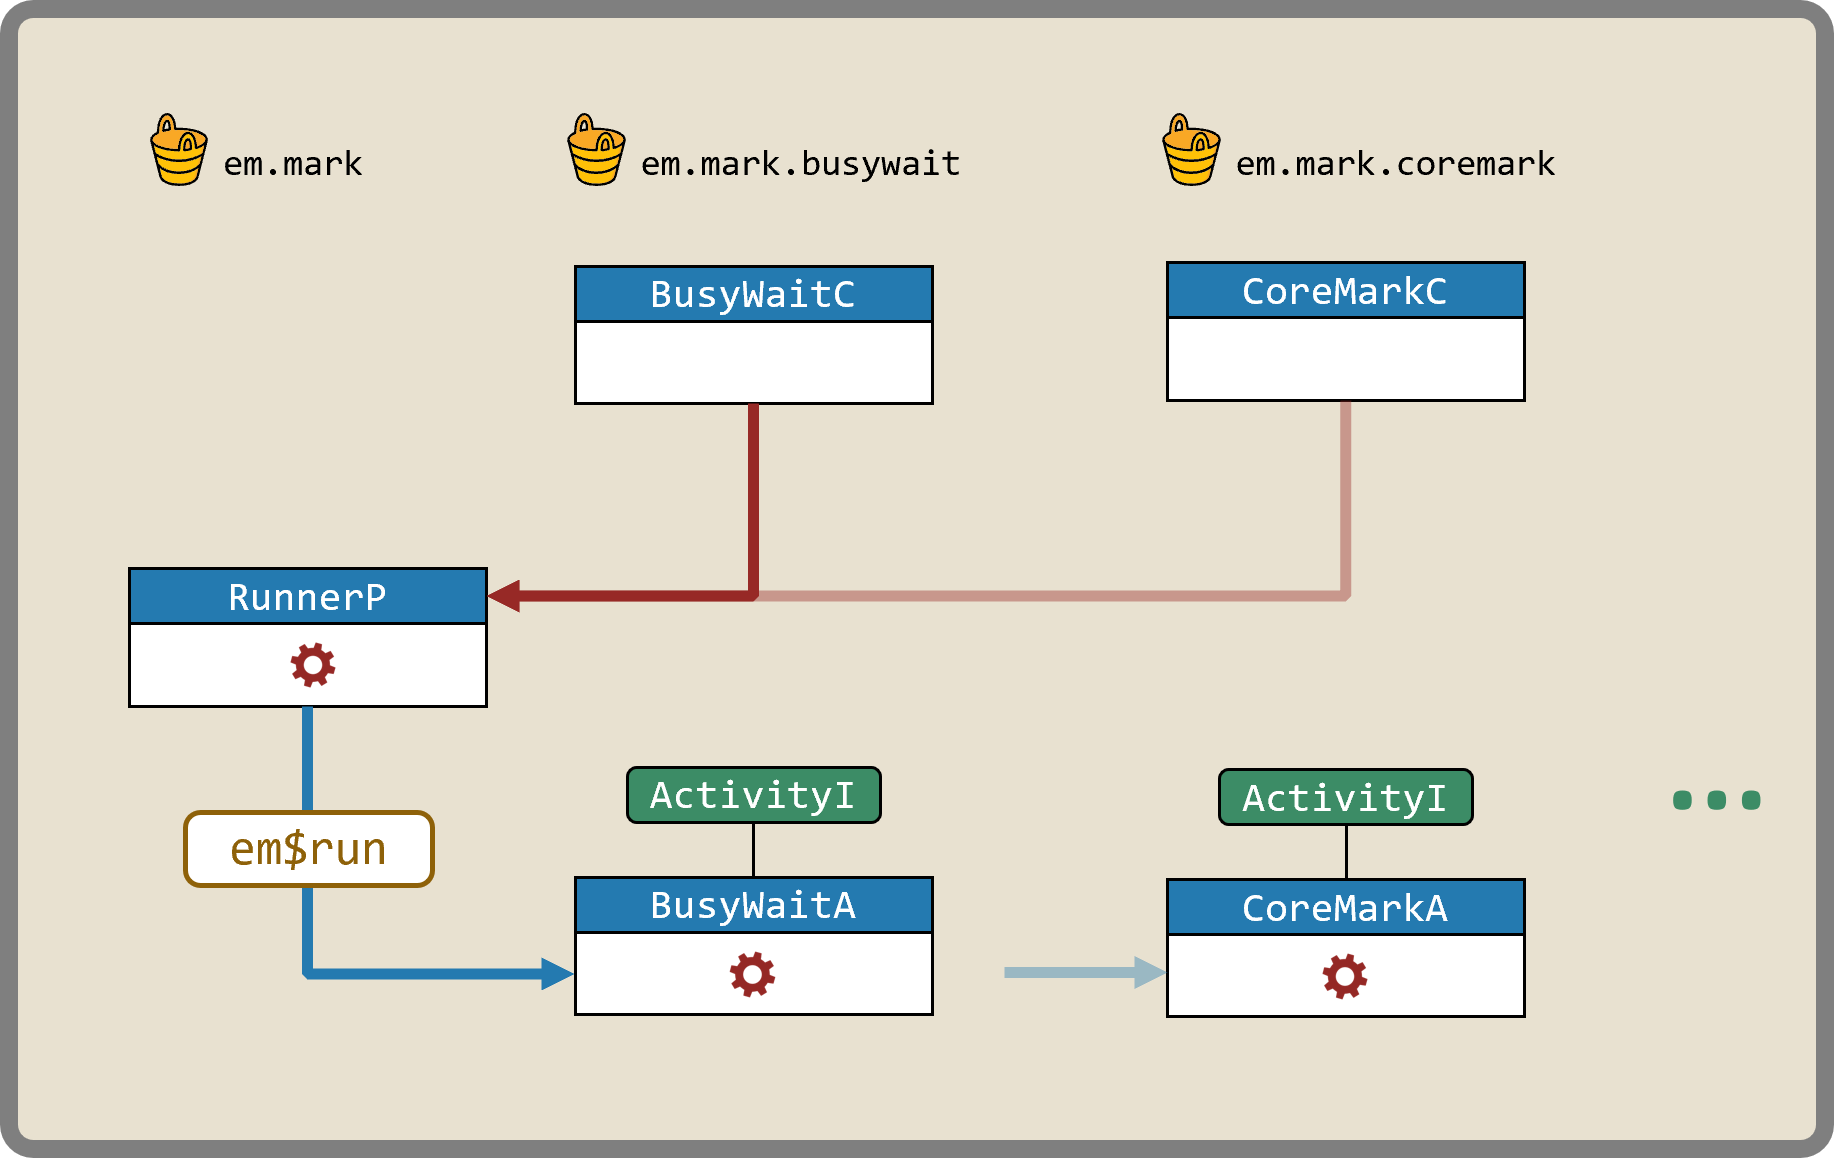
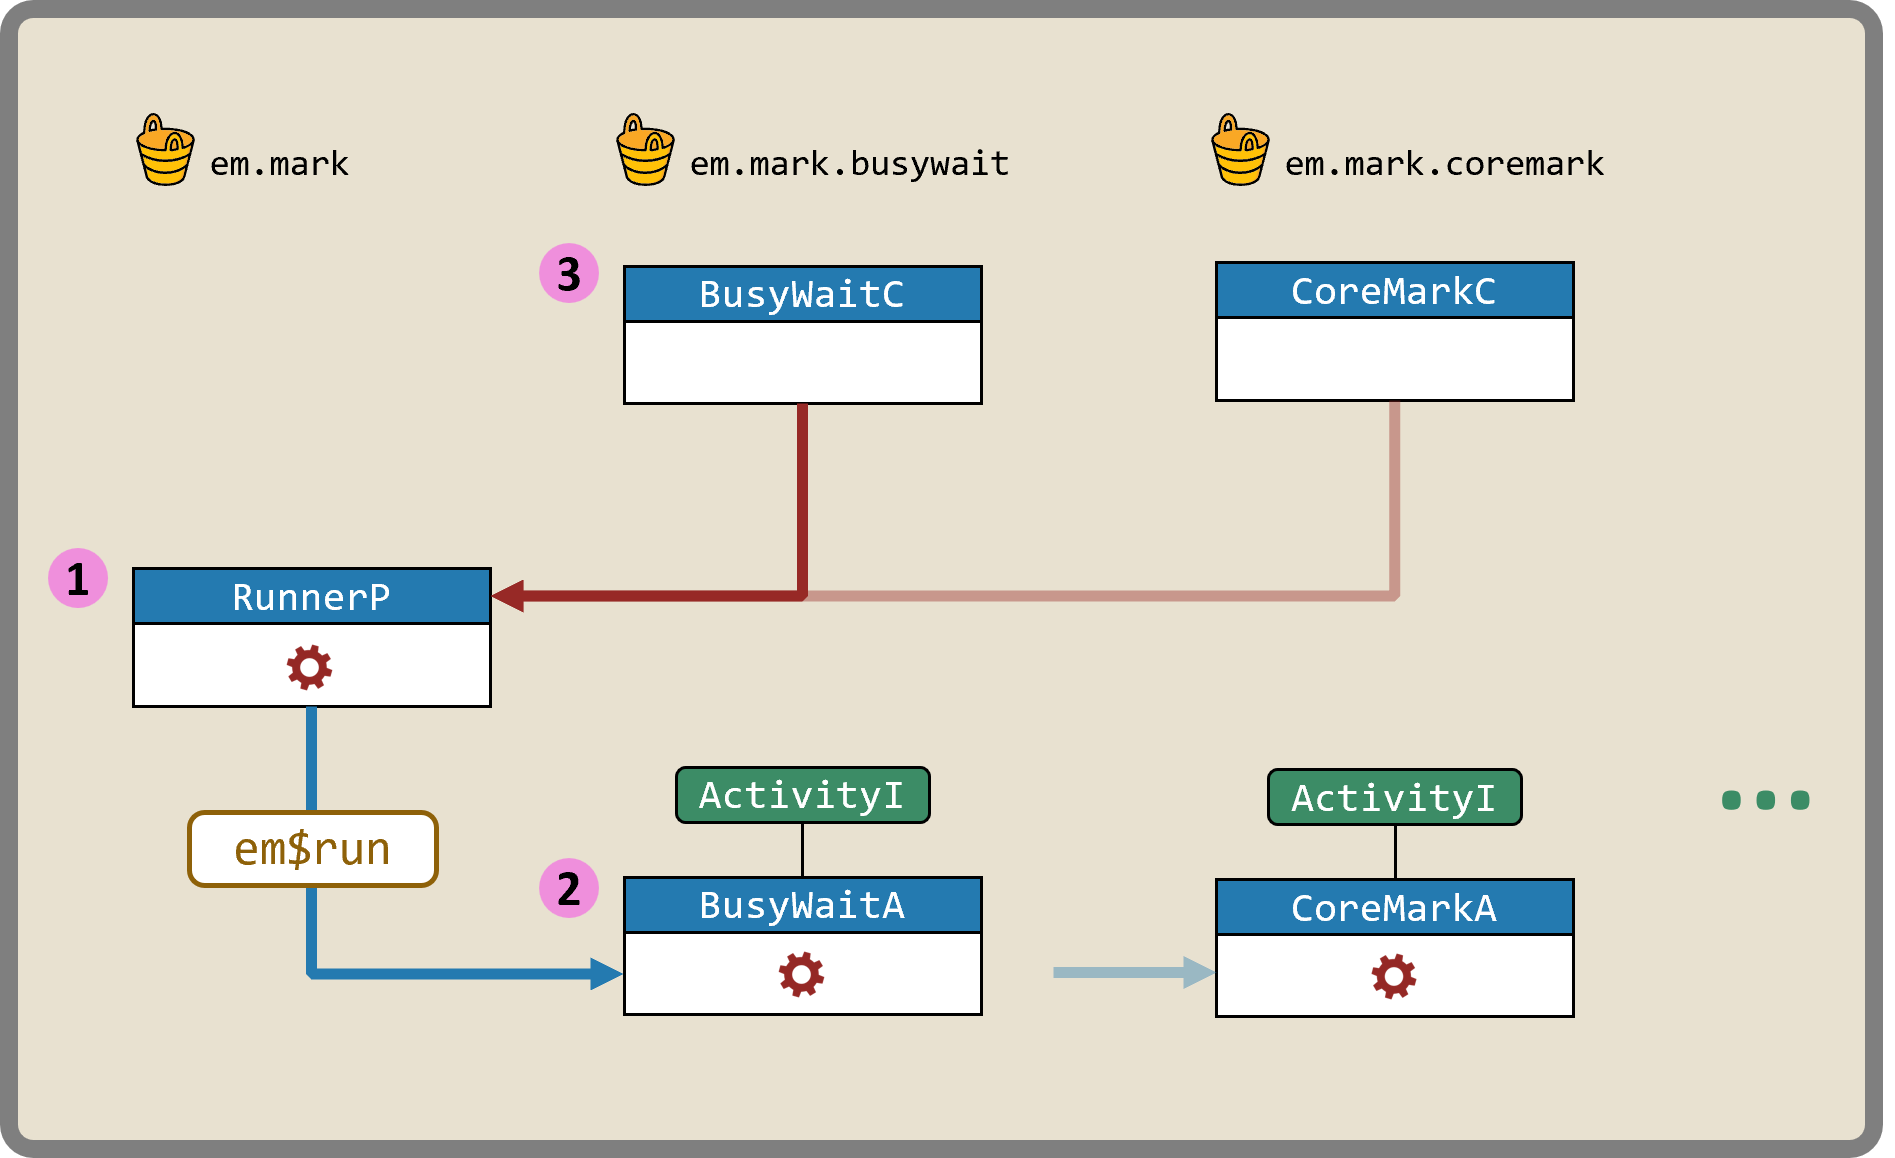
tour 104/03 WIP

diff --git a/workspace/em.mark/em.mark/RunnerP.em.ts b/workspace/em.mark/em.mark/RunnerP.em.ts
@@ -2,7 +2,9 @@ import '@$$emscript'
 export const $U = $declare('MODULE')
 
 import * as ActivityI from '@em.mark/ActivityI.em'
+import * as FiberMgr from '@em.utils/FiberMgr.em'
 import * as TickerMgr from '@em.utils/TickerMgr.em'
+import * as T from '@em.utils/TimeTypes.em'
 
 export const Activity = $proxy<ActivityI.$I>()
 export const interval_ms = $config<u16>(1000)
@@ -20,18 +22,26 @@ export namespace em$meta {
     }
 
     export function em$construct() {
-        if (!Number.isInteger(wake_count.$$val) || wake_count.$$val < 1 || wake_count.$$val > 65535) {
-            throw new Error('RunnerP.wake_count must be in 1..65535')
-        }
-        if (!Number.isInteger(interval_ms.$$val) || interval_ms.$$val < 250
-            || interval_ms.$$val > 65500 || interval_ms.$$val % 250 != 0) {
-            throw new Error('RunnerP.interval_ms must be a multiple of 250 in 250..65500')
-        }
         ticker.$$val = TickerMgr.em$meta.create()
     }
 }
 
 //>> ---- em$targ ---- <<//
 
+var count: u16 = wake_count
+
 export function em$run() {
+    Activity.setup()
+    ticker.$$.start(T.Secs30p2_initMsecs(interval_ms), $cb(tickCB))
+    FiberMgr.run()
+}
+
+function tickCB() {
+    $['%%d+']
+    Activity.exec()
+    $['%%d-']
+    if (--count > 0) return
+    ticker.$$.stop()
+    Activity.teardown()
+    halt()
 }
